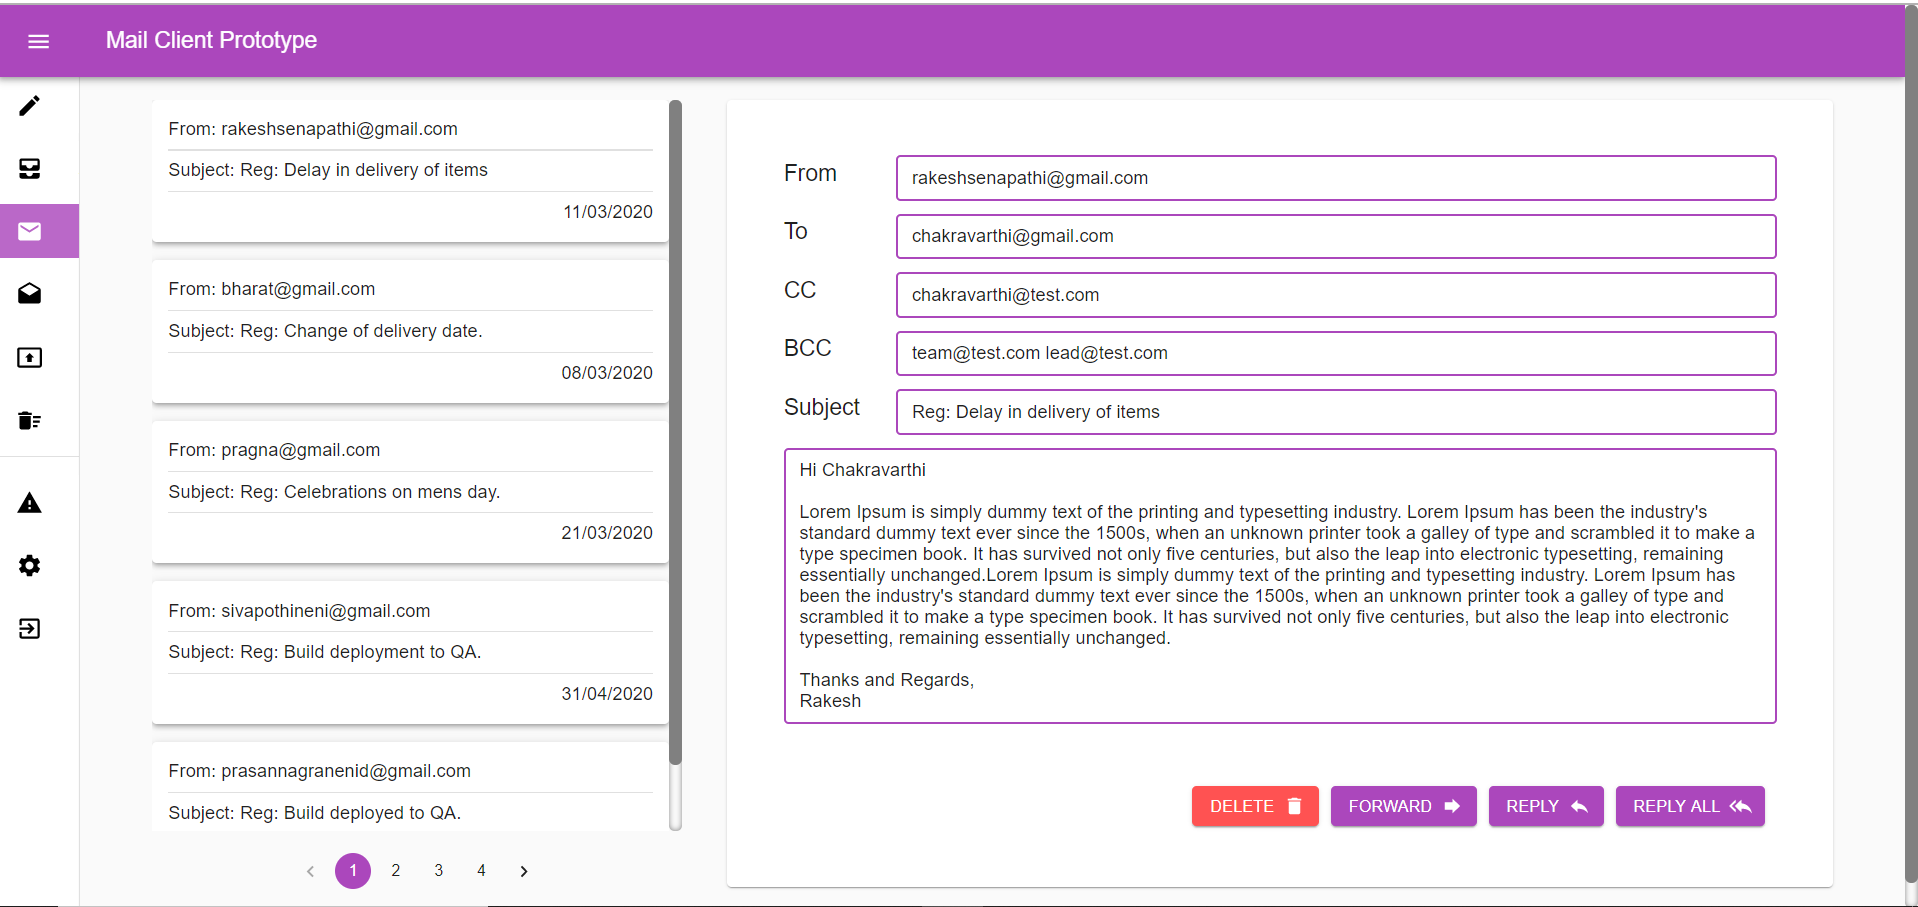
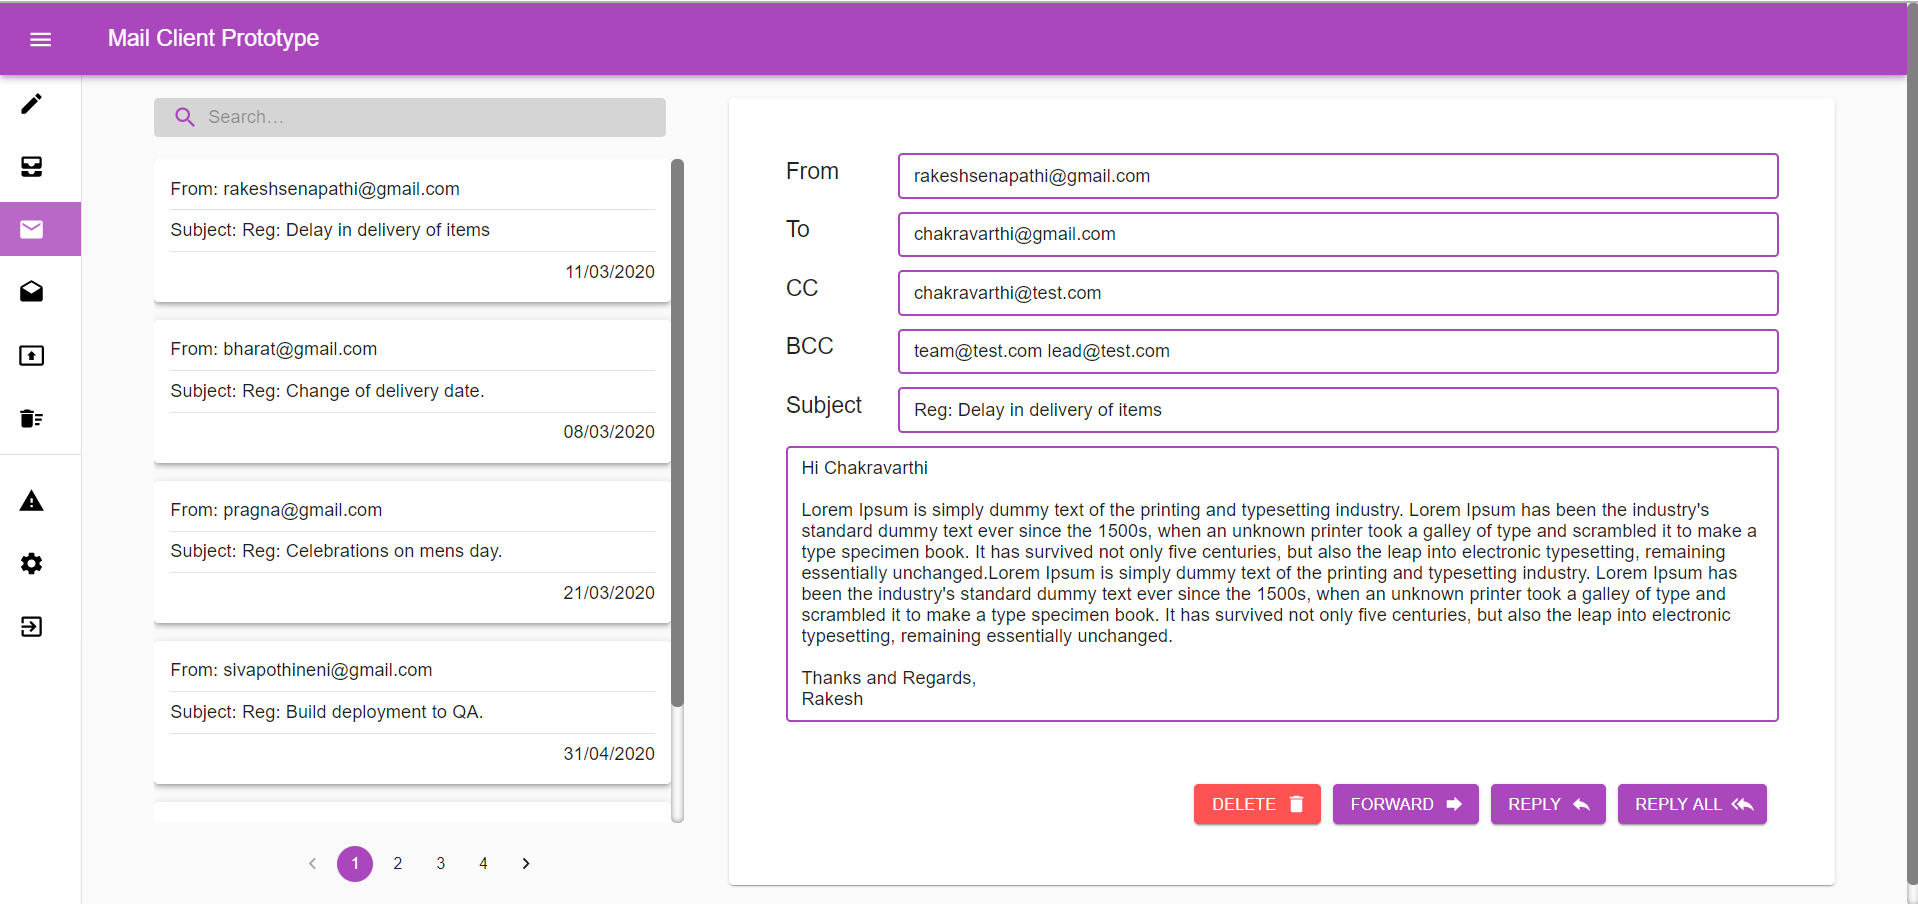
Added search functionality

diff --git a/src/components/Mails.js b/src/components/Mails.js
@@ -1,16 +1,11 @@
 import React, { Fragment, useState, useEffect } from "react";
 import Pagination from "@material-ui/lab/Pagination";
 import { makeStyles } from "@material-ui/core";
-import MuiAlert from "@material-ui/lab/Alert";
-import Snackbar from "@material-ui/core/Snackbar";
 import { useSelector } from "react-redux";
 import { useLocation } from "react-router";
 
 import MailItem from "./MailItem";
-
-function Alert(props) {
-  return <MuiAlert elevation={6} variant="filled" {...props} />;
-}
+import SearchBar from "./SearchBar";
 
 const useStyles = makeStyles({
   mailsPaginateDiv: {
@@ -22,8 +17,8 @@ const useStyles = makeStyles({
     marginBottom: 20,
   },
   mailsMailItemDiv: {
-    minHeight: 650,
-    maxHeight: 650,
+    minHeight: 590,
+    maxHeight: 590,
     overflowY: "scroll",
     overflowX: "hidden",
   },
@@ -32,18 +27,12 @@ const useStyles = makeStyles({
 const Mails = ({ mails, mailClick }) => {
   const classes = useStyles();
   const location = useLocation();
-  const deleteError = useSelector((state) => state.mails.deleteError);
+  //Redux level state
   const settings = useSelector((state) => state.mails.settings);
+  //component level state
   const [currentPage, setCurrentPage] = useState(1);
-  const [open, setOpen] = useState(false);
   const [mailsPerPage, setMailsPerPage] = useState(5);
-
-  const handleClose = (event, reason) => {
-    if (reason === "clickaway") {
-      return;
-    }
-    setOpen(false);
-  };
+  const [searchText, setSearchText] = useState("");
 
   const handleChange = (event, value) => {
     setCurrentPage(value);
@@ -51,12 +40,8 @@ const Mails = ({ mails, mailClick }) => {
 
   useEffect(() => {
     setCurrentPage(1);
+    setSearchText("");
   }, [location.pathname]);
-
-  useEffect(() => {
-    if (deleteError) setOpen(true);
-    else setOpen(false);
-  }, [deleteError]);
 
   useEffect(() => {
     if (settings && settings.mailsPerPage !== 5) {
@@ -64,12 +49,27 @@ const Mails = ({ mails, mailClick }) => {
     }
   }, [settings]);
 
+  const searchChangedHandler = (event) => {
+    setSearchText(event.target.value);
+  };
+
+  const filteredMails = mails.filter((mail) => {
+    return (
+      mail.from.toLowerCase().includes(searchText.toLowerCase()) ||
+      mail.subject.toLowerCase().includes(searchText.toLowerCase())
+    );
+  });
+
   const indexOfLastMail = currentPage * mailsPerPage;
   const indexOfFirstMail = indexOfLastMail - mailsPerPage;
-  const currentMails = mails.slice(indexOfFirstMail, indexOfLastMail);
+  const currentMails = filteredMails.slice(indexOfFirstMail, indexOfLastMail);
 
   return (
     <Fragment>
+      <SearchBar
+        searchText={searchText}
+        searchChangedHandler={searchChangedHandler}
+      />
       <div className={classes.mailsMailItemDiv}>
         {currentMails.map((mail) => (
           <MailItem
@@ -86,17 +86,12 @@ const Mails = ({ mails, mailClick }) => {
       </div>
       <div className={classes.mailsPaginateDiv}>
         <Pagination
-          count={Math.ceil(mails.length / mailsPerPage)}
+          count={Math.ceil(filteredMails.length / mailsPerPage)}
           page={currentPage}
           color="primary"
           onChange={handleChange}
         />
       </div>
-      <Snackbar open={open} autoHideDuration={6000} onClose={handleClose}>
-        <Alert onClose={handleClose} severity="error">
-          {deleteError ? `${deleteError.message} Cannot delete !` : ""}
-        </Alert>
-      </Snackbar>
     </Fragment>
   );
 };

diff --git a/src/components/SearchBar.js b/src/components/SearchBar.js
@@ -1,0 +1,67 @@
+import React from "react";
+import SearchIcon from "@material-ui/icons/Search";
+import InputBase from "@material-ui/core/InputBase";
+import { makeStyles, fade } from "@material-ui/core";
+
+const useStyles = makeStyles((theme) => ({
+  searchIcon: {
+    padding: theme.spacing(0, 2),
+    height: "100%",
+    position: "absolute",
+    pointerEvents: "none",
+    display: "flex",
+    alignItems: "center",
+    justifyContent: "center",
+  },
+  inputRoot: {
+    color: "primary",
+  },
+  inputInput: {
+    padding: theme.spacing(1, 1, 1, 0),
+    // vertical padding + font size from searchIcon
+    paddingLeft: `calc(1em + ${theme.spacing(4)}px)`,
+    transition: theme.transitions.create("width"),
+    width: "100%",
+    [theme.breakpoints.up("md")]: {
+      width: "20ch",
+    },
+  },
+  search: {
+    position: "relative",
+    borderRadius: theme.shape.borderRadius,
+    backgroundColor: fade(theme.palette.common.black, 0.15),
+    "&:hover": {
+      backgroundColor: fade(theme.palette.primary.main, 0.25),
+    },
+    marginRight: theme.spacing(2),
+    marginBottom: 20,
+    marginLeft: 0,
+    width: "100%",
+    [theme.breakpoints.up("sm")]: {
+      width: "auto",
+    },
+  },
+}));
+
+const SearchBar = ({ searchText, searchChangedHandler }) => {
+  const classes = useStyles();
+  return (
+    <div className={classes.search}>
+      <div className={classes.searchIcon}>
+        <SearchIcon color="primary" />
+      </div>
+      <InputBase
+        placeholder="Search…"
+        classes={{
+          root: classes.inputRoot,
+          input: classes.inputInput,
+        }}
+        inputProps={{ "aria-label": "search" }}
+        value={searchText}
+        onChange={searchChangedHandler}
+      />
+    </div>
+  );
+};
+
+export default SearchBar;

diff --git a/src/store/actions/mailsActions.js b/src/store/actions/mailsActions.js
@@ -65,7 +65,7 @@ export const getMails = () => {
         trashMails: tempMails.filter((mail) => mail.key === "trash"),
         draftMails: tempMails.filter((mail) => mail.key === "drafts"),
         spamMails: tempMails.filter((mail) => mail.key === "spam"),
-        allMails: tempMails,
+        allMails: tempMails.filter((mail) => mail.key !== "settings"),
         settings: settingsResponce.data,
       };
       dispatch({ type: GET_MAILS_SUCCESS, payload: mails });

diff --git a/src/components/MailComponent.js b/src/components/MailComponent.js
@@ -15,7 +15,7 @@ const MailComponent = () => {
   );
 
   useEffect(() => {
-    if (location.pathname === "/Inbox") {
+    if (location.pathname === "/Inbox" || location.pathname === "/") {
       setMailDisplay(inbox[0]);
     } else if (location.pathname === "/Sent") {
       setMailDisplay(sent[0]);

diff --git a/README.md b/README.md
@@ -1,7 +1,6 @@
 # Mail-Client-Prototype
 
-Mail-Client-Prototype is a web application representing a protoype of email web application.
-Used Firebase as REST API.
+Mail-Client-Prototype is a web application representing a protoype of email web application. Used Firebase as REST API. Attached code has json data that is used in this application(src/data/mails.json).
 This is built using React Hooks, Redux, Material-UI.
 
 ![alt text](https://github.com/ChakravarthiChowdary/Mail-Client-Prototype/blob/master/src/app1.PNG)
